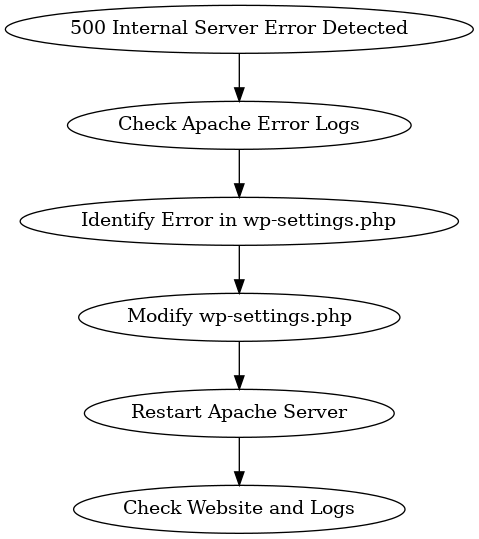
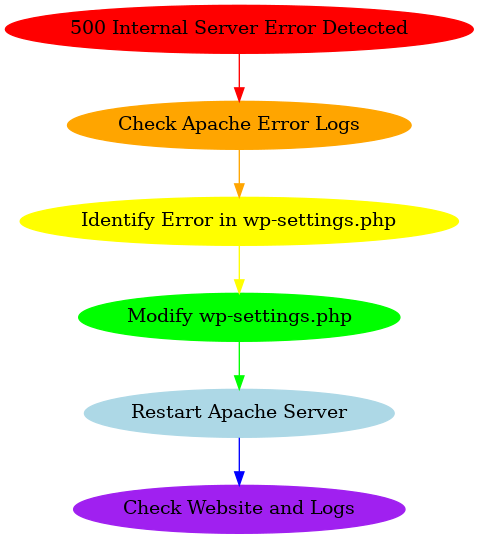
commiting colorful diagram

diff --git a/0x19-postmortem/generate_debugging_process.py b/0x19-postmortem/generate_debugging_process.py
@@ -2,16 +2,20 @@ from graphviz import Digraph
 
 dot = Digraph(comment='Debugging Process for Apache 500 Error')
 
-# Nodes
-dot.node('A', '500 Internal Server Error Detected')
-dot.node('B', 'Check Apache Error Logs')
-dot.node('C', 'Identify Error in wp-settings.php')
-dot.node('D', 'Modify wp-settings.php')
-dot.node('E', 'Restart Apache Server')
-dot.node('F', 'Check Website and Logs')
+# Nodes with colors
+dot.node('A', '500 Internal Server Error Detected', style='filled', color='red')
+dot.node('B', 'Check Apache Error Logs', style='filled', color='orange')
+dot.node('C', 'Identify Error in wp-settings.php', style='filled', color='yellow')
+dot.node('D', 'Modify wp-settings.php', style='filled', color='green')
+dot.node('E', 'Restart Apache Server', style='filled', color='lightblue')
+dot.node('F', 'Check Website and Logs', style='filled', color='purple')
 
-# Edges
-dot.edges(['AB', 'BC', 'CD', 'DE', 'EF'])
+# Edges with colors
+dot.edge('A', 'B', color='red')
+dot.edge('B', 'C', color='orange')
+dot.edge('C', 'D', color='yellow')
+dot.edge('D', 'E', color='green')
+dot.edge('E', 'F', color='blue')
 
 # Save and render
 dot.render('debugging_process_apache_500_error', format='png')
